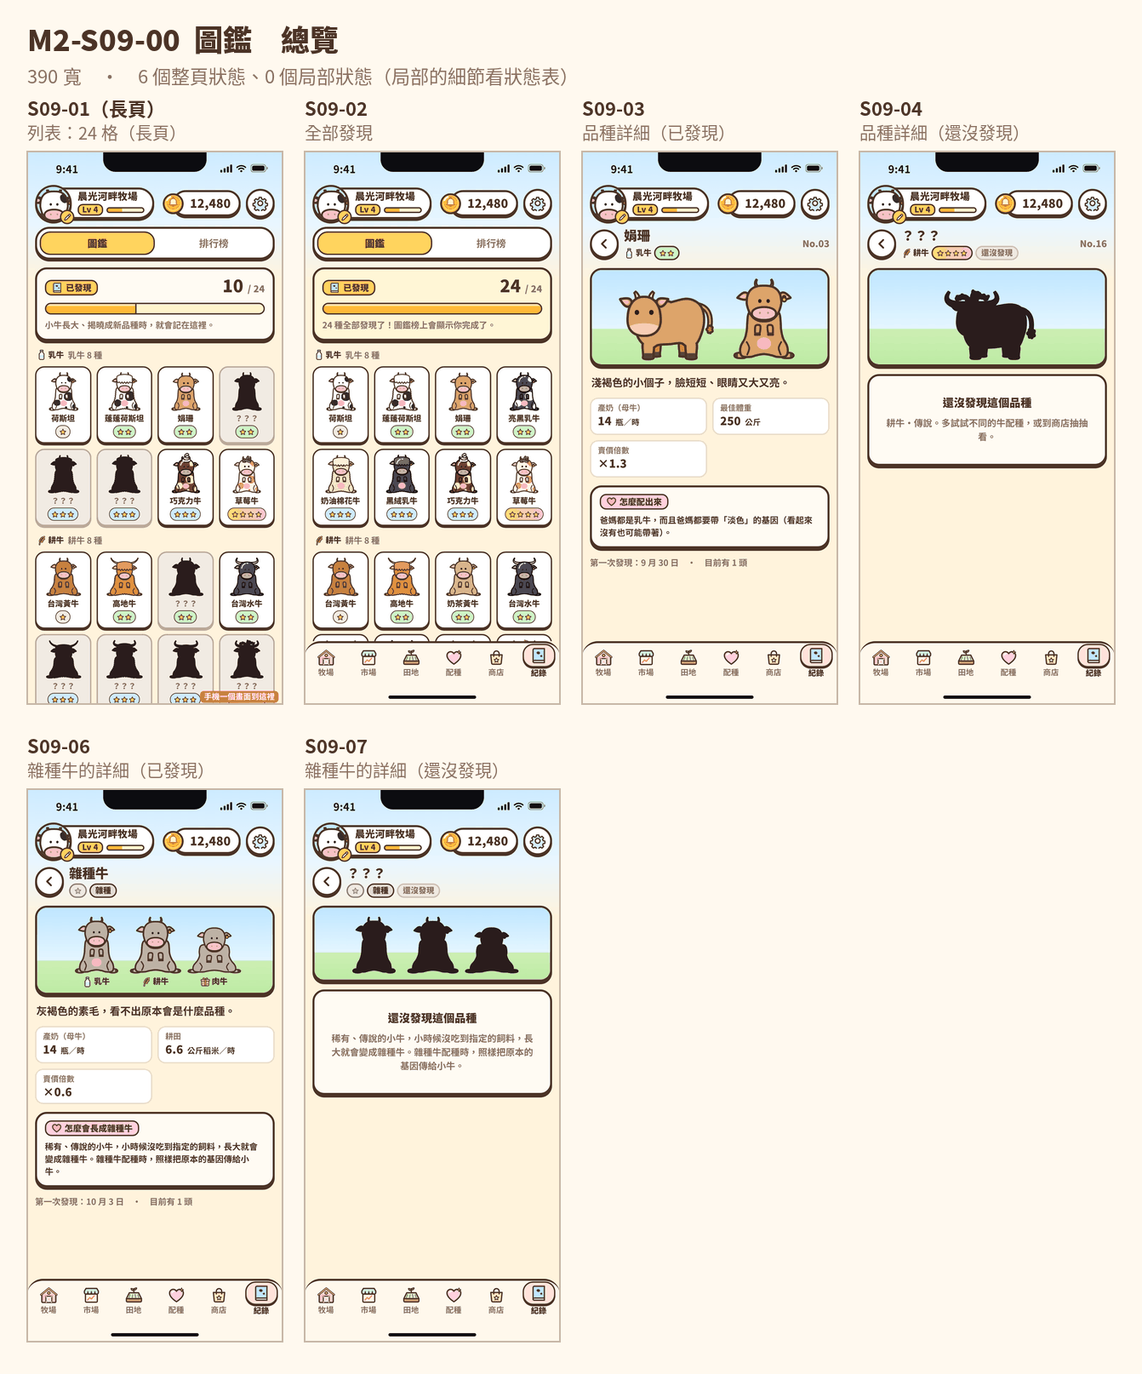
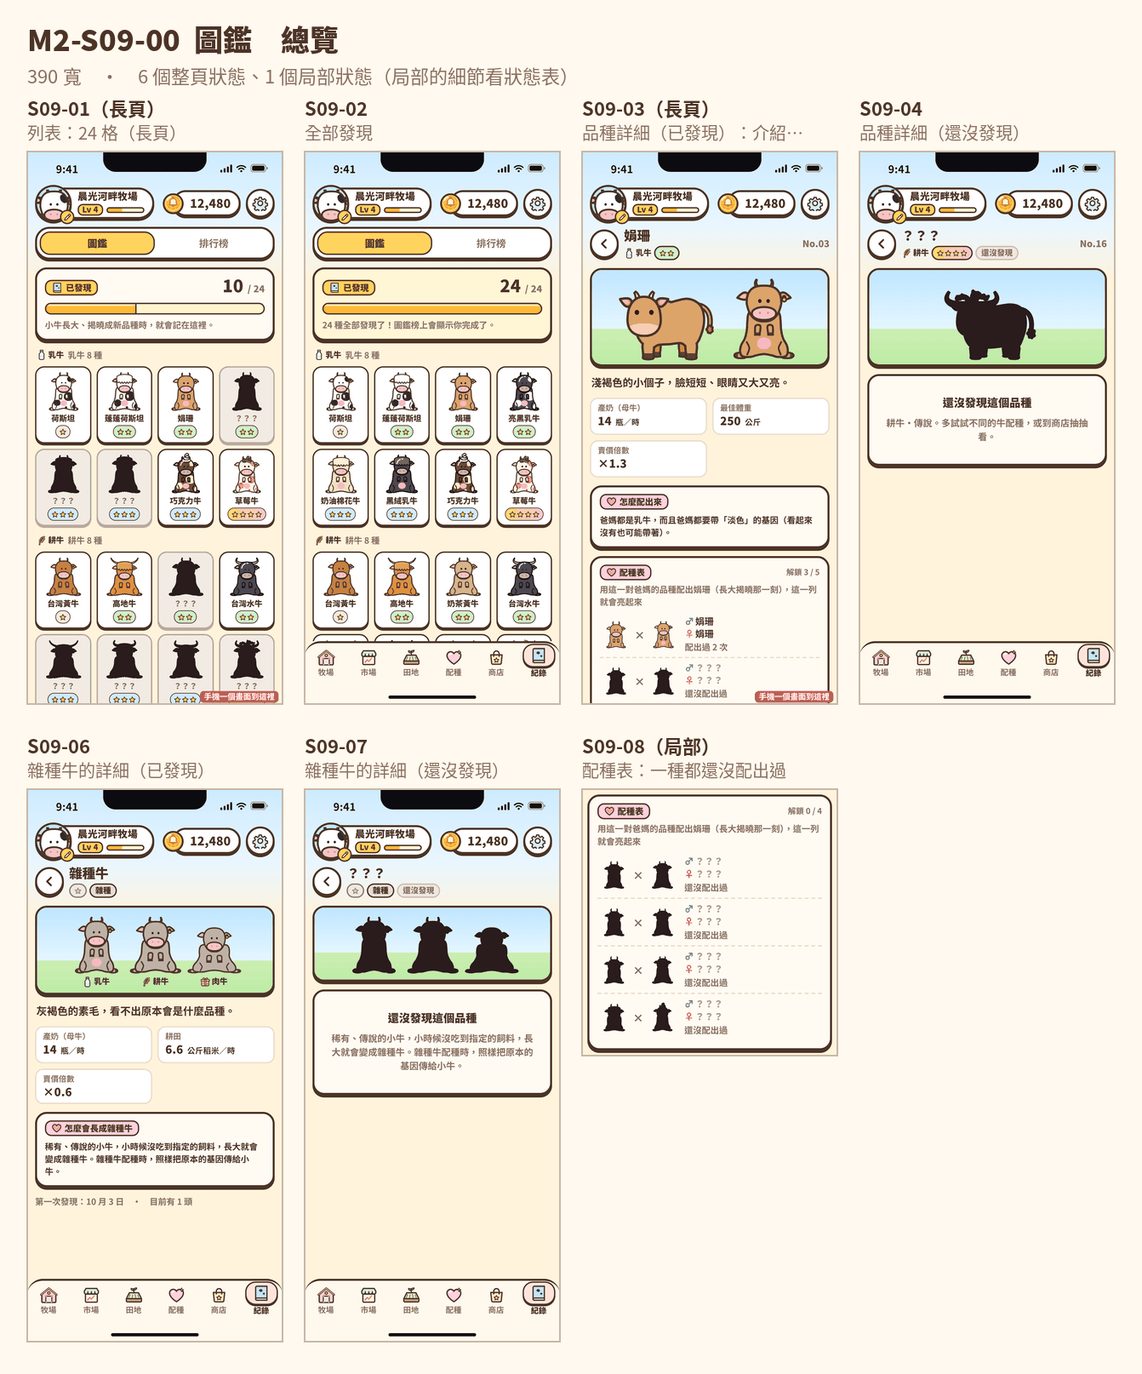
圖鑑的配種表（第 15 輪 03-B 一對一列）：品種詳細 S09-03 加配種表、S09-08 一種都還沒配出過 (#176)
* PR 6 圖鑑的配種表（第 15 輪 03-B 一對一列）：品種詳細 S09-03 加配種表（長頁）、S09-08 一種都還沒配出過；字串 +6（程式，還沒重拍）

* PR 6：重拍、合成（S09-03 變成長頁、加配種表；新增 S09-08 和 S09 的局部狀態表）、量測摘要

* PR 6 三步走（cow-app，接 main 以後重做）：重產 strings.g.dart（806 個 key）、待做清單加 S09-08（頁面 ID 總數 239）

---------

Changed region(s): [[0.4888, 0.4027, 0.7332, 0.7745], [0.1833, 0.4957, 0.2444, 0.5266], [0.5805, 0.062, 0.611, 0.0929]]

diff --git a/design/m2/src/js/screens/s09.js b/design/m2/src/js/screens/s09.js
@@ -45,7 +45,7 @@ function hintFor(b) {
   if (!tr.length) return t('s09.howNoTrait', { use });
   return t('s09.howTraits', { use, traits: tr.map((x) => t(`trait.${x}`)).join(t('g.listSep')) });
 }
-function detailPage(ctx, k, { found = true } = {}) {
+function detailPage(ctx, k, { found = true, pairs = null } = {}) {
   const b = BREEDS[k], tier = tierOf(b);
   const stats = [];
   if (b.use === 'dairy') stats.push([t('s09.milkCow'), `14 <small>${t('g.perHourMilk')}</small>`]);
@@ -60,12 +60,35 @@ function detailPage(ctx, k, { found = true } = {}) {
     <article class="card dex-hero"><div class="hero-bg"></div>${pics}</article>
     ${found ? `<p class="dex-intro">${breedIntro(k)}</p>
     <div class="kv">${stats.map(([a, v]) => `<div class="cell"><div class="k">${a}</div><div class="v num">${v}</div></div>`).join('')}</div>
-    <article class="card"><div class="card-head"><span class="card-title pink">${icon('heart', 16)}${t('s09.howTitle')}</span></div><p class="hint" style="margin-top:6px;color:var(--ink)">${hintFor(b)}</p></article>
+    <article class="card"><div class="card-head"><span class="card-title pink">${icon('heart', 16)}${t('s09.howTitle')}</span></div><p class="hint" style="margin-top:6px;color:var(--ink)">${hintFor(b)}</p></article>${pairs ? pairTable(k, pairs) : ''}
     <p class="hint">${t('s09.firstFound', { date: t('date.mdOnly', { m: 9, d: 30 }), n: k === 'holstein' ? 3 : 1 })}</p>`
       : `<article class="card"><div class="empty"><div class="t1">${t('s09.unknownTitle')}</div><div class="t2">${t('s09.unknownBody', { use: useName(b.use), tier: tierName(tier) })}</div></div></article>`}
   </div>`;
-  return frame(ctx.dev, { tab: 'records', content });
+  return frame(ctx.dev, { tab: 'records', content, tall: !!pairs });
 }
+
+// ---------- 配種表（使用者 2026-10-08 選第 15 輪 03-B「一對一列」；v0.3 第 13.2 節） ----------
+// 每個品種列 3–4 個代表配法（伺服器的資料表定）；玩家用這一對爸媽的品種配出這個品種（長大揭曉那一刻，變成雜種牛不算），那一列就亮起來，畫出爸媽兩頭牛；
+// 還沒配出過是兩頭牛的影子、名字「？？？」。用表上沒有的配法配出來的，加在最後面（淡黃底、「表上沒有的配法」）。借種也算；商店抽的、小遊戲抓的沒有爸媽，不算。
+// pairs：[{ dad, mom, got（配出過幾次，0 是還沒）, extra（表上沒有的） }]
+const parentPic = (k, sex, lock) => cowSVG({ breed: k, sex }, { w: 50, h: 45, pad: 2, sil: lock ? 'dark' : false });
+function pairRow(p) {
+  const lock = !p.got, dn = lock ? t('g.unknownBreed') : breedName(p.dad), mn = lock ? t('g.unknownBreed') : breedName(p.mom);
+  return `<div class="bp-row${lock ? ' locked' : ''}${p.extra ? ' extra' : ''}"><span class="bp-pic">${parentPic(p.dad, 'bull', lock)}</span><span class="bp-x">×</span><span class="bp-pic">${parentPic(p.mom, 'cow', lock)}</span>
+    <div class="grow"><b><i class="sx m">♂</i>${dn}</b><b><i class="sx f">♀</i>${mn}</b><span class="hint">${lock ? t('s09.pairNone') : t('s09.pairCount', { n: p.got })}${p.extra ? t('g.sep') + t('s09.pairExtra') : ''}</span></div></div>`;
+}
+export function pairTable(k, pairs) {
+  return `<article class="card bp-table"><div class="card-head"><span class="card-title pink">${icon('heart', 16)}${t('s09.pairTitle')}</span><span class="card-sub">${t('s09.pairUnlocked', { n: pairs.filter((p) => p.got).length, total: pairs.length })}</span></div>
+    <p class="hint" style="margin-top:4px">${t('s09.pairHint', { breed: breedName(k) })}</p><div class="bp-list">${pairs.map(pairRow).join('')}</div></article>`;
+}
+// 娟珊的配種表（假資料）：代表配法 4 個、解鎖 2 個，加 1 個表上沒有的
+const JERSEY_PAIRS = [
+  { dad: 'jersey', mom: 'jersey', got: 2 },
+  { dad: 'holstein', mom: 'jersey', got: 0 },
+  { dad: 'jersey', mom: 'holstein', got: 1 },
+  { dad: 'cottonCream', mom: 'chocolate', got: 0 },
+  { dad: 'glossBlack', mom: 'jersey', got: 1, extra: true },
+];
 
 // 雜種牛的詳細：三種體型的正面並排、沒有編號、「雜種」標籤代替稀有度；數值照一般牛 × 0.6（產奶量不變，賣價乘倍數；耕田的收成乘倍數）
 function mixDetail(ctx, { found = true } = {}) {
@@ -103,13 +126,15 @@ function allSheet() {
 
 const S = [];
 const full = (id, name, render, x = {}) => S.push({ id, name, type: 'full', render, ...x });
+const part = (id, name, crop, render, x = {}) => S.push({ id, name, type: 'part', crop, render, ...x });
 full('S09-01', '列表：24 格（長頁）', (ctx) => codexPage(ctx), { tall: true });
 full('S09-02', '全部發現', (ctx) => codexPage(ctx, { found: CODEX_ORDER, mix: true, tall: false }));
-full('S09-03', '品種詳細（已發現）', (ctx) => detailPage(ctx, 'jersey'));
+full('S09-03', '品種詳細（已發現）：介紹、數值、怎麼配出來、配種表（長頁）', (ctx) => detailPage(ctx, 'jersey', { pairs: JERSEY_PAIRS }), { tall: true });
 full('S09-04', '品種詳細（還沒發現）', (ctx) => detailPage(ctx, 'goldenEar', { found: false }));
 S.push({ id: 'S09-05', name: '24 種全圖（核准外型）', type: 'sheet', viewport: { w: 1320, h: 1400 }, render: () => allSheet() });
 full('S09-06', '雜種牛的詳細（已發現）', (ctx) => mixDetail(ctx));
 full('S09-07', '雜種牛的詳細（還沒發現）', (ctx) => mixDetail(ctx, { found: false }));
+part('S09-08', '配種表：一種都還沒配出過', '.bp-table', (ctx) => detailPage(ctx, 'jersey', { pairs: JERSEY_PAIRS.filter((p) => !p.extra).map((p) => ({ ...p, got: 0 })) }), { tall: true });
 
 // ---------------- S12 排行榜 ----------------
 // 每週排行榜在台灣時間週一 00:00 重新計算（D25），畫面換成手機當地的時間（ceo 2026-10-02）。星期用全名 weekdayFull（縮寫 weekday 留給 date.mdw）。

diff --git a/app/lib/l10n/gen/strings.g.dart b/app/lib/l10n/gen/strings.g.dart
@@ -151,6 +151,9 @@ const Map<String, List<String>> kPlaceholders = {
   's09.howNoTrait': ['use'],
   's09.howTraits': ['traits', 'use'],
   's09.no': ['n'],
+  's09.pairUnlocked': ['n', 'total'],
+  's09.pairHint': ['breed'],
+  's09.pairCount': ['n'],
   's09.firstFound': ['date', 'n'],
   'date.mdOnly': ['d', 'm'],
   's09.unknownBody': ['tier', 'use'],
@@ -693,6 +696,12 @@ const Map<String, String> _zhHant = {
   's09.notFoundYet': '還沒發現',
   's09.no': 'No.{n}',
   's09.howTitle': '怎麼配出來',
+  's09.pairTitle': '配種表',
+  's09.pairUnlocked': '解鎖 {n} / {total}',
+  's09.pairHint': '用這一對爸媽的品種配出{breed}（長大揭曉那一刻），這一列就會亮起來',
+  's09.pairCount': '配出過 {n} 次',
+  's09.pairNone': '還沒配出過',
+  's09.pairExtra': '表上沒有的配法',
   's09.firstFound': '第一次發現：{date}　・　目前有 {n} 頭',
   'date.mdOnly': '{m} 月 {d} 日',
   's09.unknownTitle': '還沒發現這個品種',
@@ -1497,6 +1506,12 @@ const Map<String, String> _en = {
   's09.notFoundYet': 'Not found yet',
   's09.no': 'No.{n}',
   's09.howTitle': 'How to breed it',
+  's09.pairTitle': 'Breeding table',
+  's09.pairUnlocked': 'Unlocked {n} / {total}',
+  's09.pairHint': 'Breed a {breed} from this pair (counted when it grows up) to light up the row',
+  's09.pairCount': 'Bred {n} times',
+  's09.pairNone': 'Not bred yet',
+  's09.pairExtra': 'Not on the list',
   's09.firstFound': 'First found: {date} · Owned: {n}',
   'date.mdOnly': '{m}/{d}',
   's09.unknownTitle': 'Breed not found yet',
@@ -2300,6 +2315,12 @@ const Map<String, String> _th = {
   's09.notFoundYet': 'ยังไม่พบ',
   's09.no': 'No.{n}',
   's09.howTitle': 'ผสมให้ได้อย่างไร',
+  's09.pairTitle': 'ตารางผสมพันธุ์',
+  's09.pairUnlocked': 'ปลดล็อก {n} / {total}',
+  's09.pairHint': 'ผสมได้{breed}จากพ่อแม่คู่นี้ (นับตอนโตแล้ว) แถวนี้จะสว่างขึ้น',
+  's09.pairCount': 'ผสมได้ {n} ครั้ง',
+  's09.pairNone': 'ยังไม่เคยผสมได้',
+  's09.pairExtra': 'นอกตาราง',
   's09.firstFound': 'พบครั้งแรก: {date} · ตอนนี้มี {n} ตัว',
   'date.mdOnly': '{d}/{m}',
   's09.unknownTitle': 'ยังไม่พบสายพันธุ์นี้',
@@ -4123,6 +4144,24 @@ abstract class GeneratedStrings {
 
   /// `s09.howTitle`：怎麼配出來
   String get s09HowTitle => table['s09.howTitle']!;
+
+  /// `s09.pairTitle`：配種表
+  String get s09PairTitle => table['s09.pairTitle']!;
+
+  /// `s09.pairUnlocked`：解鎖 {n} / {total}
+  String s09PairUnlocked({required Object n, required Object total}) => fill('s09.pairUnlocked', {'n': n, 'total': total});
+
+  /// `s09.pairHint`：用這一對爸媽的品種配出{breed}（長大揭曉那一刻），這一列就會亮起來
+  String s09PairHint({required Object breed}) => fill('s09.pairHint', {'breed': breed});
+
+  /// `s09.pairCount`：配出過 {n} 次
+  String s09PairCount({required Object n}) => fill('s09.pairCount', {'n': n});
+
+  /// `s09.pairNone`：還沒配出過
+  String get s09PairNone => table['s09.pairNone']!;
+
+  /// `s09.pairExtra`：表上沒有的配法
+  String get s09PairExtra => table['s09.pairExtra']!;
 
   /// `s09.firstFound`：第一次發現：{date}　・　目前有 {n} 頭
   String s09FirstFound({required Object date, required Object n}) => fill('s09.firstFound', {'date': date, 'n': n});

diff --git a/design/m2/src/css/screens.css b/design/m2/src/css/screens.css
@@ -1079,3 +1079,17 @@
 .grow-alert .bn-close { right: -4px; top: -4px; }
 .grow-alert .btn { flex: none; margin-top: 18px; }
 .ga-feed { display: inline-flex; align-items: center; gap: 1px; margin-left: 4px; color: var(--ink); font-weight: 900; vertical-align: middle; }
+
+/* ================= 圖鑑的配種表（使用者 2026-10-08 選第 15 輪 03-B「一對一列」；v0.3 第 13.2 節） ================= */
+.bp-list { display: flex; flex-direction: column; margin-top: 6px; }
+.bp-row { display: flex; align-items: center; gap: 2px; padding: 6px 0; border-top: 2px dashed var(--line-soft); }
+.bp-row:first-child { border-top: 0; }
+.bp-row.extra { margin-top: 4px; padding: 6px 4px; border-top: 0; border-radius: 12px; background: #FFF6D6; }
+.bp-pic { line-height: 0; }
+.bp-x { align-self: center; padding: 0 1px; font-size: 16px; font-weight: 900; line-height: 20px; color: var(--ink-2); }
+.bp-row .grow { display: flex; flex-direction: column; margin-left: 6px; min-width: 0; }
+.bp-row b { display: inline-flex; align-items: center; gap: 2px; font-size: 14px; line-height: 19px; }
+.bp-row.locked b { color: var(--ink-3); }
+.sx { font-style: normal; font-weight: 900; }
+.sx.m { color: #3B82C4; }
+.sx.f { color: #E0567E; }

diff --git a/app/test/pages/pages_test.dart b/app/test/pages/pages_test.dart
@@ -54,6 +54,8 @@ const pendingPageIds = {
   'S04-22',
   // 兩位數等級的升級慶祝（#178）
   'S11-07',
+  // 圖鑑的配種表（#176）
+  'S09-08',
 };
 
 /// scope.md 裡不是 app 畫面的頁面 ID：沒有畫面狀態，也不會做（ceo 2026-10-03）。
@@ -74,7 +76,7 @@ void main() {
   group('頁面 ID（design/m2/scope.md）', () {
     test('每個頁面 ID 不是有畫面狀態，就是在待做清單（或不是 app 畫面）；做好的要從清單拿掉', () {
       final scope = scopePageIds();
-      expect(scope, hasLength(238), reason: 'scope.md 改了頁面 ID：待做清單和 pageCases 要跟著改');
+      expect(scope, hasLength(239), reason: 'scope.md 改了頁面 ID：待做清單和 pageCases 要跟著改');
       final done = {for (final c in pageCases) c.id};
       expect(pageCases, hasLength(done.length), reason: '同一個頁面 ID 只能有一個狀態');
       expect(done.intersection(pendingPageIds), isEmpty, reason: '做好的頁面 ID 要從待做清單拿掉');

diff --git a/design/m2/measure/summary-th.md b/design/m2/measure/summary-th.md
@@ -9,10 +9,10 @@
 
 | 寬度 | 狀態數 | 最小字級 | 有問題的狀態 | 橫向捲動 | 刻意截成「…」 | 要往下捲的狀態 |
 |---|---|---|---|---|---|---|
-| 430×932 | 222 | 12 px | 0 | 0 | 0 | 41 |
-| 390×844 | 222 | 12 px | 0 | 0 | 2 | 53 |
-| 360×800 | 222 | 12 px | 2 | 0 | 4 | 70 |
-| 320×568 | 222 | 12 px | 3 | 0 | 145 | 97 |
+| 430×932 | 223 | 12 px | 0 | 0 | 0 | 41 |
+| 390×844 | 223 | 12 px | 0 | 0 | 2 | 53 |
+| 360×800 | 223 | 12 px | 2 | 0 | 4 | 70 |
+| 320×568 | 223 | 12 px | 3 | 0 | 146 | 96 |
 
 ## 430×932
 
@@ -180,7 +180,7 @@
 | S19-05 | 320 | ความหายาก、หายาก | เลือกได้แค่เกรด ส่วนประเภท เพศ และความหา⏎ยากจะสุ่ม โดยเปิดเผยโอกาสทั้งหมด วัวที่ได้จะ⏎เป็นลูกวัว |
 | S19-05 | 320 | หายาก | สุ่มได้วัวหา⏎ยากง่าย⏎ที่สุด |
 
-<details><summary>所有換了行的泰文（206 句，給校對看斷詞）</summary>
+<details><summary>所有換了行的泰文（208 句，給校對看斷詞）</summary>
 
 | 實際換行（⏎） | Intl.Segmenter 斷詞（\|） |
 |---|---|
@@ -319,6 +319,7 @@
 | ขาย 130 ขวด ราคาเฉลี่ย 14.8 รวม 1,924 ⏎เหรียญ | ขาย \|   \| 130 \|   \| ขวด \|   \| ราคา \| เฉลี่ย \|   \| 14.8 \|   \| รวม \|   \| 1,924 \|   \| เหรียญ |
 | ซูเปอร์ไต้ฝุ่นถล่ม ตลาดปิด⏎ทั้งหมด | ซู \| เปอร์ \| ไต้ฝุ่น \| ถล่ม \|   \| ตลาด \| ปิด \| ทั้งหมด |
 | ตัวเล็กสีน้ำตาลอ่อน หน้าสั้น ดวงตากลมโตเป็น⏎ประกาย | ตัว \| เล็ก \| สี \| น้ำตาล \| อ่อน \|   \| หน้า \| สั้น \|   \| ดวงตา \| กลม \| โต \| เป็น \| ประกาย |
+| ผสมได้เจอร์ซีย์จากพ่อแม่คู่นี้ (นับตอนโตแล้ว) แถวนี้จะ⏎สว่างขึ้น | ผสม \| ได้ \| เจอร์ซีย์ \| จาก \| พ่อ \| แม่คู่ \| นี้ \|   \| ( \| นับ \| ตอน \| โต \| แล้ว \| ) \|   \| แถว \| นี้ \| จะ \| สว่าง \| ขึ้น |
 | ขนสีเทาน้ำตาลเรียบ ๆ ดูไม่ออกว่าเดิมจะเป็นพันธุ์⏎อะไร | ขน \| สี \| เทา \| น้ำตาล \| เรียบ \|   \| ๆ \|   \| ดู \| ไม่ \| ออก \| ว่า \| เดิม \| จะ \| เป็น \| พันธุ์ \| อะไร |
 | 9.8 / 28 ขวด⏎เต็มในอีก ~1 ชม. 18 นาที | 9.8 \|   \| / \|   \| 28 \|   \| ขวด \| เต็ม \| ใน \| อีก \|   \| ~ \| 1 \|   \| ชม \| . \|   \| 18 \|   \| นาที |
 | 6.2 / 28 ขวด⏎เต็มในอีก ~1 ชม. 34 นาที | 6.2 \|   \| / \|   \| 28 \|   \| ขวด \| เต็ม \| ใน \| อีก \|   \| ~ \| 1 \|   \| ชม \| . \|   \| 34 \|   \| นาที |
@@ -362,6 +363,7 @@
 | ค่าใช้จ่าย ฟรี (วัวของตัว⏎เอง) | ค่า \| ใช้ \| จ่าย \|   \| ฟรี \|   \| ( \| วัว \| ของ \| ตัว \| เอง \| ) |
 | ผสมพันธุ์สำเร็จ! ลูกวัวนม #16 เกิด⏎แล้ว | ผสม \| พันธุ์ \| สำเร็จ \| ! \|   \| ลูกวัว \| นม \|   \| # \| 16 \|   \| เกิด \| แล้ว |
 | เมื่อลูกวัวโตและเผยเป็นสายพันธุ์ใหม่ จะถูกบันทึก⏎ไว้ที่นี่ | เมื่อ \| ลูกวัว \| โต \| และ \| เผย \| เป็น \| สาย \| พันธุ์ \| ใหม่ \|   \| จะ \| ถูก \| บันทึก \| ไว้ \| ที่ \| นี่ |
+| ผสมได้ 1 ครั้ง · นอก⏎ตาราง | ผสม \| ได้ \|   \| 1 \|   \| ครั้ง \|   \| · \|   \| นอก \| ตาราง |
 | ขยาย⏎คอกวัว | ขยาย \| คอก \| วัว |
 | ขยายแล้ว ⏎10 ครั้ง | ขยาย \| แล้ว \|   \| 10 \|   \| ครั้ง |
 | 12 → ⏎13 ช่อง | 12 \|   \| → \|   \| 13 \|   \| ช่อง |

diff --git a/design/m2/scope.md b/design/m2/scope.md
@@ -368,16 +368,24 @@
 |---|---|---|---|---|---|
 | S09-01 | 列表：24 格（3 用途 × 8 特徵組合），發現的是牛的正面小圖，沒發現的是剪影；「已發現 n / 24」。最下面「其他」一格雜種牛：整排寬、三種體型並排，不算在 24 種裡、也不算完成度；還沒長出過是剪影（v0.3） | 整頁 | GDD 4.5、4.6 | `S.codexTitle`、`S.codexCount`（分母改 24）；`s09.other`、`s09.otherHint`、`s09.mixBodies` | 部分（M1 是 12 格色塊） |
 | S09-02 | 全部發現＋完成度獎勵（雜種牛那一格是發現了的樣子） | 整頁 | GDD 4.6 | 新 | 無 |
-| S09-03 | 品種詳細（已發現）：大圖（側面＋正面）、一句話介紹、乳用與肉用數值、配種提示 | 整頁 | GDD 4.6 | 新（介紹文字由我寫初稿、ceo 審） | 無 |
+| S09-03 | 品種詳細（已發現）：大圖（側面＋正面）、一句話介紹、乳用與肉用數值、怎麼配出來；配種表（第 15 輪 03-B，娟珊：代表配法 4 個、解鎖 2 個，加 1 個表上沒有的；長頁） | 整頁 | GDD 4.6；v0.3 第 13.2 節 | 新（介紹文字由我寫初稿、ceo 審；`s09.pair*`） | 無 |
 | S09-04 | 品種詳細（還沒發現）：剪影＋「？」＋提示 | 整頁 | GDD 4.6 | 新 | 無 |
 | S09-05 | 24 種全圖（給使用者核准外型；大張，不是手機畫面，1320 寬） | 大張 | D19：還沒畫的 14 種在這裡一起核准 | — | 無 |
 | S09-06 | 雜種牛的詳細（已發現）：三種體型的正面並排、下面寫用途；「雜種」標籤、沒有編號；一句話介紹；產奶、耕田、賣價倍數 ×0.6；「怎麼會長成雜種牛」 | 整頁 | 點「其他」那一格（v0.3 第 1.1 節） | 新（`breed.mix.*`、`s09.mixHowTitle`、`s09.mixHow`） | 無 |
 | S09-07 | 雜種牛的詳細（還沒發現）：三種體型的剪影、「還沒發現這個品種」、怎麼會長成雜種牛 | 整頁 | 同上，還沒長出過雜種牛 | 新 | 無 |
+| S09-08 | 配種表：一種都還沒配出過（四列都是兩頭牛的影子、「？？？」、「還沒配出過」） | 局部 | 這個品種是商店抽到、小遊戲抓到的，或配出來以前就從別的牛身上發現 | 新（`s09.pairNone`） | 無 |
 
 - 協定的 `codex` 只有 12 格「用途 × 稀有度」，分不出同一稀有度的不同品種。ceo 決定畫 24 格，協定由 ceo 列給 cow-back（第 9 節第 1 題）。
 - 格子裡的牛名（cow-app #116，ceo 2026-10-03）：
   - 一行放不下就換行，最多兩行、置中，可以在任何字之間換（`screens.css` 英文、泰文那段的第 3 條；前面 `.dex-name` 的 `nowrap` 會被它蓋掉）。繁中的名字一行放得下。
   - 畫面寬度小於 390（360、320）一排 3 格；430、390 一排 4 格。360 寬排 4 格時一格只剩約 69 px，英文的「Black Velvet Dairy」「Cotton Candy Highland」要換三行，所以改 3 格（`@media (max-width: 389px)`）。排 3 格以後三種語言的名字都不超過兩行。
+- 配種表（使用者 2026-10-08 選第 15 輪 03-B「一對一列」；v0.3 第 13.2 節）：
+  - 放在品種詳細「怎麼配出來」下面。一對爸媽一列：爸爸（♂，藍）× 媽媽（♀，粉紅）兩頭牛的正面小圖、名字、「配出過 N 次」。
+  - 每個品種列 3–4 個代表配法，由伺服器的資料表定（設計稿是假資料）。玩家用這一對爸媽的品種配出這個品種（長大揭曉那一刻才算，變成雜種牛不算），那一列就亮起來；還沒配出過的是兩頭牛的影子、名字「？？？」。
+  - 用表上沒有的配法配出來的，加在最後面：淡黃底，後面寫「表上沒有的配法」。所以表會越來越長。
+  - 借種也算（爸爸是借來的公牛那個品種）；商店抽的、小遊戲抓的沒有爸媽，不算。
+  - 右上角「解鎖 n / 全部」，全部是代表配法加上表上沒有的。
+  - cow-ui 提案：還沒發現的品種（S09-04）不放配種表，只放剪影和提示，等 ceo 定。特殊牛沒有配種表（特殊不會遺傳），改寫「在抓牛小遊戲遇到」，跟特殊牛一起畫。
 - 「其他」那一格（雜種牛，v0.3）：三頭牛並排、名字在右邊；寬度小於 390 時名字換到三頭牛下面（英文、泰文的名字放不下右邊）。
 
 ### S10 商店（設施升級、擴建）

diff --git a/design/m2/measure/summary-en.md b/design/m2/measure/summary-en.md
@@ -9,10 +9,10 @@
 
 | 寬度 | 狀態數 | 最小字級 | 有問題的狀態 | 橫向捲動 | 刻意截成「…」 | 要往下捲的狀態 |
 |---|---|---|---|---|---|---|
-| 430×932 | 222 | 12 px | 0 | 0 | 0 | 41 |
-| 390×844 | 222 | 12 px | 0 | 0 | 2 | 62 |
-| 360×800 | 222 | 12 px | 1 | 0 | 6 | 71 |
-| 320×568 | 222 | 12 px | 3 | 0 | 145 | 99 |
+| 430×932 | 223 | 12 px | 0 | 0 | 0 | 41 |
+| 390×844 | 223 | 12 px | 0 | 0 | 2 | 62 |
+| 360×800 | 223 | 12 px | 1 | 0 | 6 | 71 |
+| 320×568 | 223 | 12 px | 3 | 0 | 146 | 98 |
 
 ## 430×932
 

diff --git a/design/m2/measure/summary.md b/design/m2/measure/summary.md
@@ -9,10 +9,10 @@
 
 | 寬度 | 狀態數 | 最小字級 | 有問題的狀態 | 橫向捲動 | 刻意截成「…」 | 要往下捲的狀態 |
 |---|---|---|---|---|---|---|
-| 430×932 | 226 | 12 px | 0 | 0 | 0 | 41 |
-| 390×844 | 226 | 12 px | 0 | 0 | 1 | 52 |
-| 360×800 | 226 | 12 px | 0 | 0 | 3 | 62 |
-| 320×568 | 226 | 12 px | 4 | 0 | 147 | 95 |
+| 430×932 | 227 | 12 px | 0 | 0 | 0 | 41 |
+| 390×844 | 227 | 12 px | 0 | 0 | 1 | 52 |
+| 360×800 | 227 | 12 px | 0 | 0 | 3 | 62 |
+| 320×568 | 227 | 12 px | 4 | 0 | 148 | 94 |
 
 ## 430×932
 
